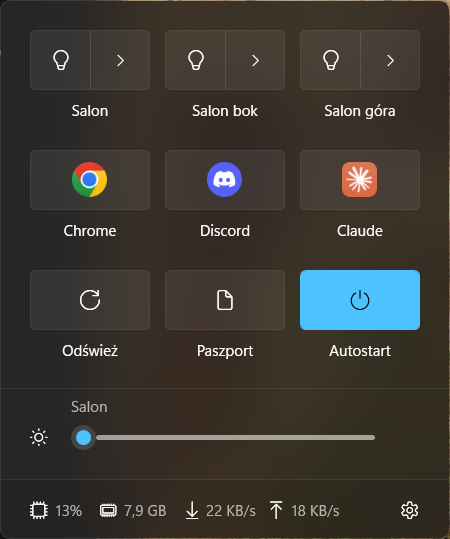
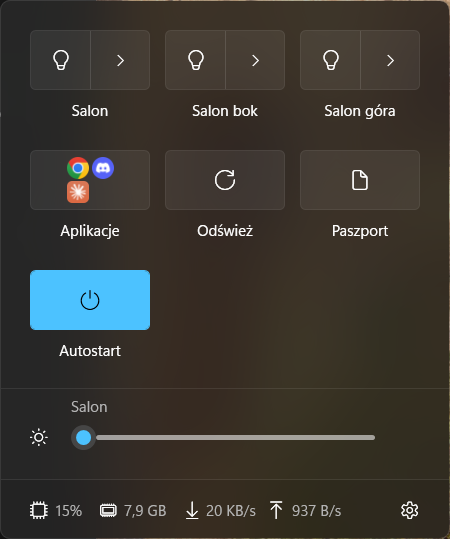
Turn app launchers into one group tile that starts several programs at once
A group (AppGroups in settings.json) is a single tile showing up to four program icons; one click starts every
program of the group and hides the panel, and a failing program does not stop the others.

diff --git a/src/PieceOfCake/MainWindow.xaml b/src/PieceOfCake/MainWindow.xaml
@@ -94,12 +94,23 @@
                                 </DataTemplate.Triggers>
                             </DataTemplate>
 
-                            <DataTemplate DataType="{x:Type vm:AppTileVm}">
+                            <DataTemplate DataType="{x:Type vm:AppGroupVm}">
                                 <StackPanel Margin="6,0" Height="96">
-                                    <Button Style="{StaticResource TileButton}" ToolTip="{Binding Target}"
-                                            Click="AppTile_Click">
-                                        <Image Source="{Binding Icon}" Width="28" Height="28"
-                                               RenderOptions.BitmapScalingMode="HighQuality"/>
+                                    <Button Style="{StaticResource TileButton}" ToolTip="{Binding ToolTip}"
+                                            Click="AppGroup_Click">
+                                        <ItemsControl ItemsSource="{Binding Icons}" Focusable="False" Width="40">
+                                            <ItemsControl.ItemsPanel>
+                                                <ItemsPanelTemplate>
+                                                    <UniformGrid Columns="2"/>
+                                                </ItemsPanelTemplate>
+                                            </ItemsControl.ItemsPanel>
+                                            <ItemsControl.ItemTemplate>
+                                                <DataTemplate>
+                                                    <Image Source="{Binding}" Width="18" Height="18" Margin="1"
+                                                           RenderOptions.BitmapScalingMode="HighQuality"/>
+                                                </DataTemplate>
+                                            </ItemsControl.ItemTemplate>
+                                        </ItemsControl>
                                     </Button>
                                     <TextBlock Text="{Binding Name}" Style="{StaticResource TileLabel}"/>
                                 </StackPanel>

diff --git a/src/PieceOfCake/MainWindow.xaml.cs b/src/PieceOfCake/MainWindow.xaml.cs
@@ -1,4 +1,5 @@
 using System;
+using System.Collections.Generic;
 using System.ComponentModel;
 using System.Diagnostics;
 using System.IO;
@@ -57,7 +58,7 @@ public partial class MainWindow : Window
         TilesControl.ItemsSource = new CompositeCollection
         {
             new CollectionContainer { Collection = _rooms },
-            new CollectionContainer { Collection = _settings.Current.Apps.Select(a => new AppTileVm(a)).ToList() },
+            new CollectionContainer { Collection = _settings.Current.AppGroups.Select(g => new AppGroupVm(g)).ToList() },
             new CollectionContainer { Collection = _settings.Current.Scripts },
             new CollectionContainer { Collection = new[] { _refreshTile, _passportTile, _autostartTile } },
         };
@@ -344,22 +345,35 @@ public partial class MainWindow : Window
 
     // ---------- Apps ----------
 
-    private void AppTile_Click(object sender, RoutedEventArgs e)
+    private void AppGroup_Click(object sender, RoutedEventArgs e)
     {
-        if ((sender as FrameworkElement)?.DataContext is not AppTileVm app)
+        if ((sender as FrameworkElement)?.DataContext is not AppGroupVm group)
         {
             return;
         }
 
-        try
+        // Start every program of the group; one that fails must not stop the others.
+        var failed = new List<string>();
+        foreach (var app in group.Apps)
         {
-            Process.Start(new ProcessStartInfo(app.Target) { UseShellExecute = true });
+            try
+            {
+                Process.Start(new ProcessStartInfo(app.Target) { UseShellExecute = true });
+            }
+            catch (Exception ex) when (ex is Win32Exception or InvalidOperationException or IOException)
+            {
+                Logger.Log(ex);
+                failed.Add(app.Name);
+            }
+        }
+
+        if (failed.Count == 0)
+        {
             HideFlyout();
         }
-        catch (Exception ex) when (ex is Win32Exception or InvalidOperationException or IOException)
+        else
         {
-            Logger.Log(ex);
-            ShowFooterStatus($"Nie udało się uruchomić „{app.Name}”: {ex.Message}");
+            ShowFooterStatus("Nie udało się uruchomić: " + string.Join(", ", failed));
         }
     }
 

diff --git a/src/PieceOfCake/ViewModels/AppGroupVm.cs b/src/PieceOfCake/ViewModels/AppGroupVm.cs
@@ -1,0 +1,35 @@
+using System.Collections.Generic;
+using System.Linq;
+using System.Windows.Media;
+using PieceOfCake.Native;
+using PieceOfCake.Services;
+
+namespace PieceOfCake.ViewModels;
+
+/// <summary>A tile that starts a group of programs; it shows up to four of their icons, like a folder.</summary>
+public sealed class AppGroupVm
+{
+    private const int MaxIcons = 4;
+
+    private IReadOnlyList<ImageSource>? _icons;
+
+    public AppGroupVm(AppGroupEntry entry)
+    {
+        Name = entry.Name;
+        Apps = entry.Apps;
+    }
+
+    public string Name { get; }
+
+    public IReadOnlyList<AppEntry> Apps { get; }
+
+    public string ToolTip => string.Join(", ", Apps.Select(a => a.Name));
+
+    /// <summary>The icons are read from the shell the first time the tile is shown.</summary>
+    public IReadOnlyList<ImageSource> Icons =>
+        _icons ??= Apps
+            .Select(a => ShellIcon.Load(a.Target))
+            .OfType<ImageSource>()
+            .Take(MaxIcons)
+            .ToList();
+}

diff --git a/src/PieceOfCake/Services/SettingsStore.cs b/src/PieceOfCake/Services/SettingsStore.cs
@@ -50,7 +50,11 @@ public sealed class SettingsStore
             var json = File.ReadAllText(FilePath, Encoding.UTF8);
             Current = JsonSerializer.Deserialize<AppSettings>(json, JsonOptions) ?? new AppSettings();
             Current.Scripts ??= new List<ScriptEntry>();
-            Current.Apps ??= new List<AppEntry>();
+            Current.AppGroups ??= new List<AppGroupEntry>();
+            foreach (var group in Current.AppGroups)
+            {
+                group.Apps ??= new List<AppEntry>();
+            }
         }
         catch (JsonException ex)
         {

diff --git a/src/PieceOfCake/Services/AppSettings.cs b/src/PieceOfCake/Services/AppSettings.cs
@@ -7,6 +7,6 @@ public sealed class AppSettings
     public string BridgeIp { get; set; } = "";
     public string BridgeCertThumbprint { get; set; } = "";
     public string ProtectedAppKey { get; set; } = "";
-    public List<AppEntry> Apps { get; set; } = new();
+    public List<AppGroupEntry> AppGroups { get; set; } = new();
     public List<ScriptEntry> Scripts { get; set; } = new();
 }

diff --git a/src/PieceOfCake/Services/AppGroupEntry.cs b/src/PieceOfCake/Services/AppGroupEntry.cs
@@ -1,0 +1,11 @@
+using System.Collections.Generic;
+
+namespace PieceOfCake.Services;
+
+/// <summary>One tile that starts several programs at once (for example Chrome, Discord and Claude).</summary>
+public sealed class AppGroupEntry
+{
+    public string Name { get; set; } = "";
+
+    public List<AppEntry> Apps { get; set; } = new();
+}

diff --git a/README.md b/README.md
@@ -74,24 +74,33 @@ Adres IP mostka znajdziesz w aplikacji Hue: Ustawienia → Mostki Hue → (i).
 - Klucz dostępu jest zapisany zaszyfrowany (DPAPI, tylko dla Twojego konta Windows).
 - Certyfikat mostka jest zapamiętany przy pierwszym połączeniu. Jeśli się zmieni, panel poprosi o ponowne parowanie.
 
-## Skróty do programów
+## Grupy programów
 
 Plik ustawień: `%APPDATA%\PieceOfCake\settings.json` (przycisk z zębatką w panelu otwiera ten folder).
-Dodaj wpisy do listy `Apps`, np.:
+Dodaj wpisy do listy `AppGroups`. Każda grupa to jeden kafelek, który jednym kliknięciem uruchamia wszystkie jej
+programy, np.:
 
 ```json
-"Apps": [
-  { "Name": "Chrome", "Target": "shell:AppsFolder\\Chrome" },
-  { "Name": "Discord", "Target": "shell:AppsFolder\\com.squirrel.Discord.Discord" },
-  { "Name": "Claude", "Target": "shell:AppsFolder\\Claude_pzs8sxrjxfjjc!Claude" }
+"AppGroups": [
+  {
+    "Name": "Aplikacje",
+    "Apps": [
+      { "Name": "Chrome", "Target": "shell:AppsFolder\\Chrome" },
+      { "Name": "Discord", "Target": "shell:AppsFolder\\com.squirrel.Discord.Discord" },
+      { "Name": "Claude", "Target": "shell:AppsFolder\\Claude_pzs8sxrjxfjjc!Claude" }
+    ]
+  }
 ]
 ```
 
+Na kafelku widać ikony do czterech pierwszych programów grupy (jak w folderze), a podpowiedź po najechaniu
+wymienia je wszystkie. Możesz mieć kilka grup, np. „Praca" i „Gry".
+
 `Target` to identyfikator programu z menu Start w postaci `shell:AppsFolder\<AppId>` (działa także dla aplikacji
 ze Sklepu), ścieżka do pliku lub folderu albo adres internetowy. Identyfikatory zainstalowanych programów wypiszesz
-w PowerShellu poleceniem `Get-StartApps`. Ikony pobiera system, więc kafelki wyglądają tak samo jak w menu Start.
-Zmiany w pliku są widoczne po ponownym uruchomieniu aplikacji.
-
+w PowerShellu poleceniem `Get-StartApps`. Ikony pobiera system, więc wyglądają tak samo jak w menu Start. Jeśli
+któryś program się nie uruchomi, reszta i tak wystartuje, a panel pokaże, którego nie udało się otworzyć. Zmiany
+w pliku są widoczne po ponownym uruchomieniu aplikacji.
 ## Własne skrypty
 
 Plik ustawień: `%APPDATA%\PieceOfCake\settings.json` (przycisk z zębatką w panelu otwiera ten folder).
